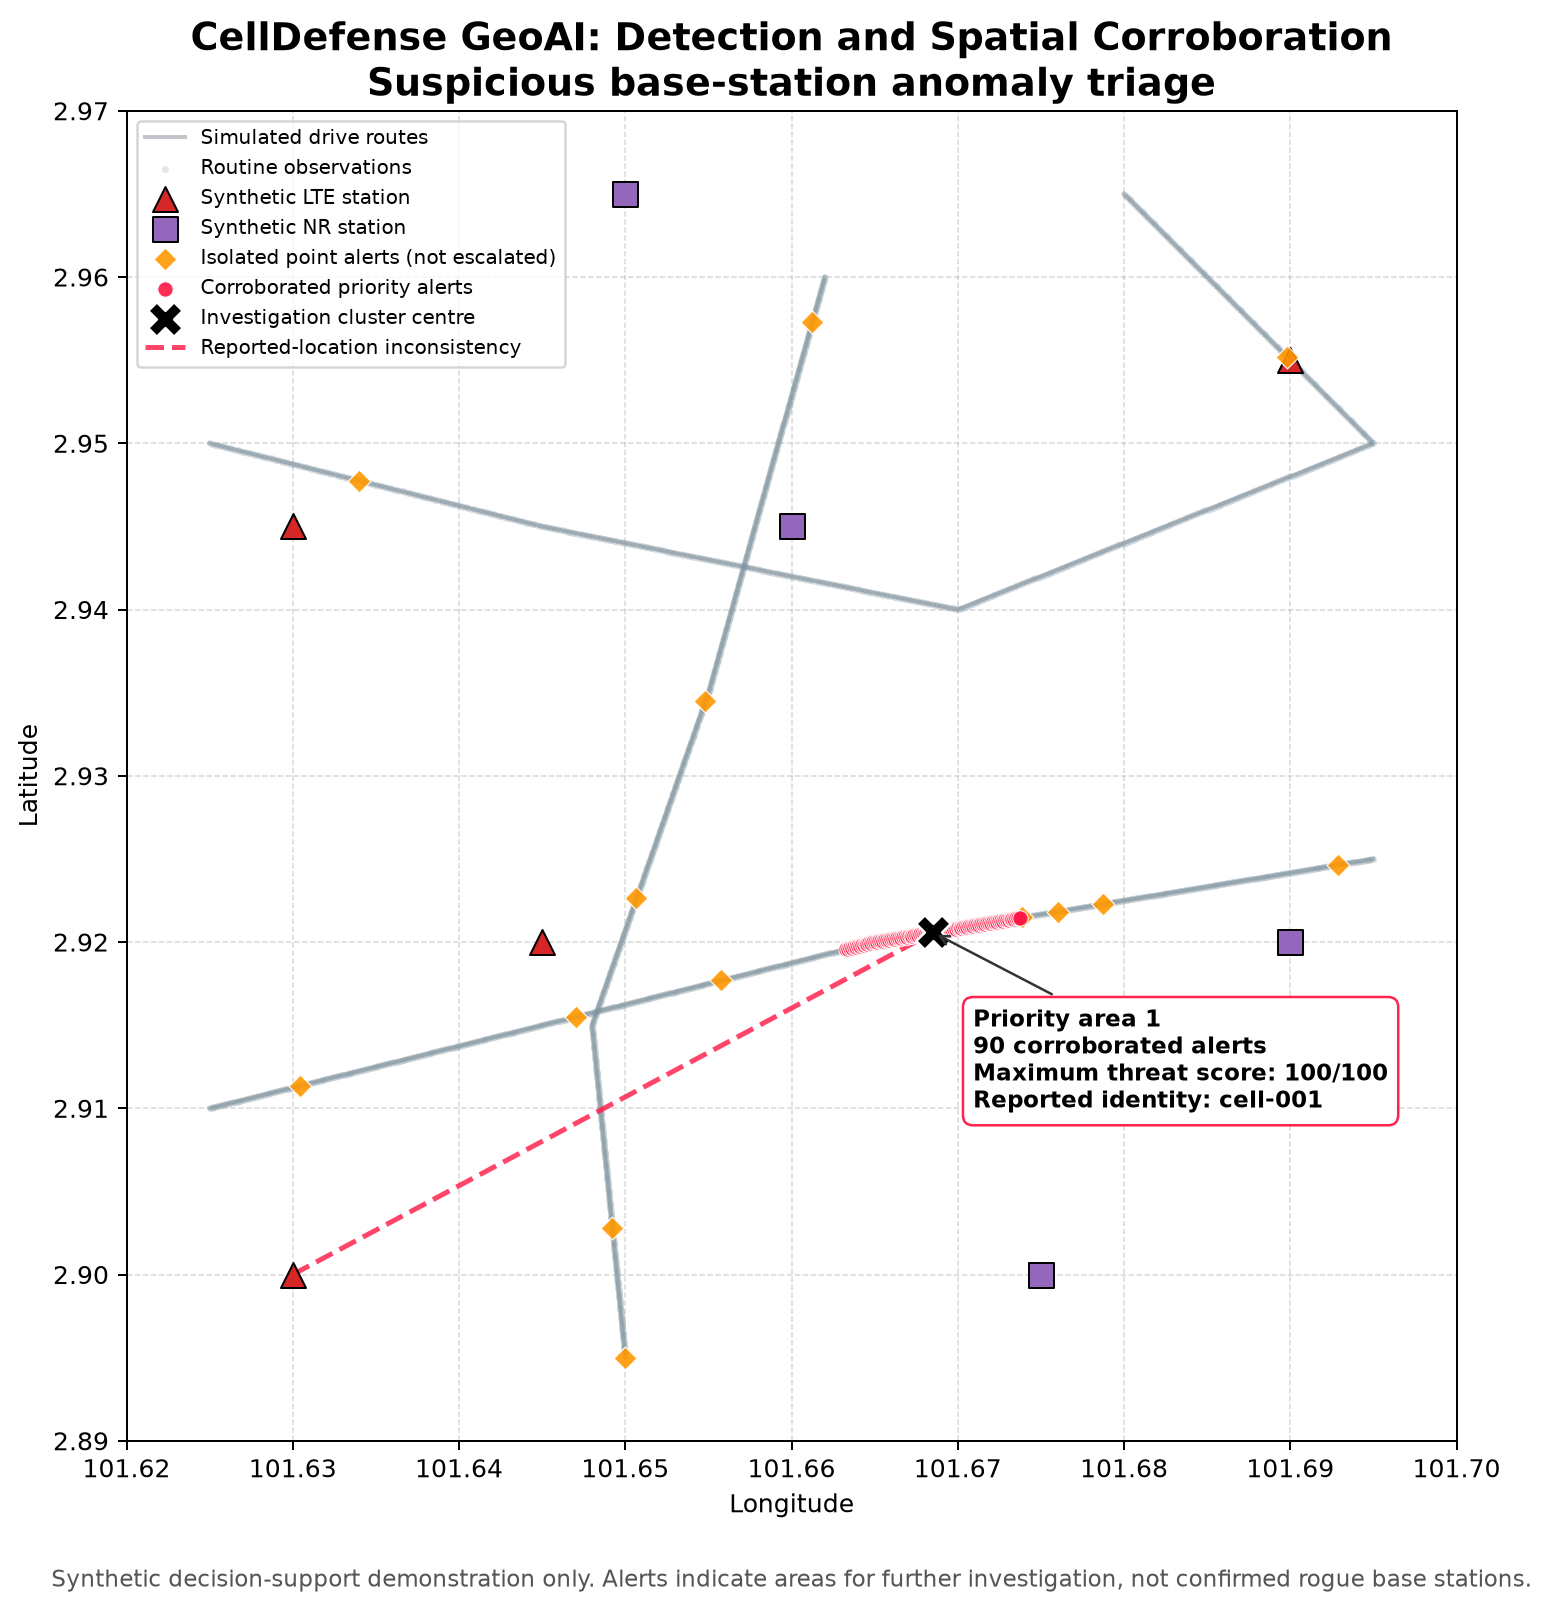
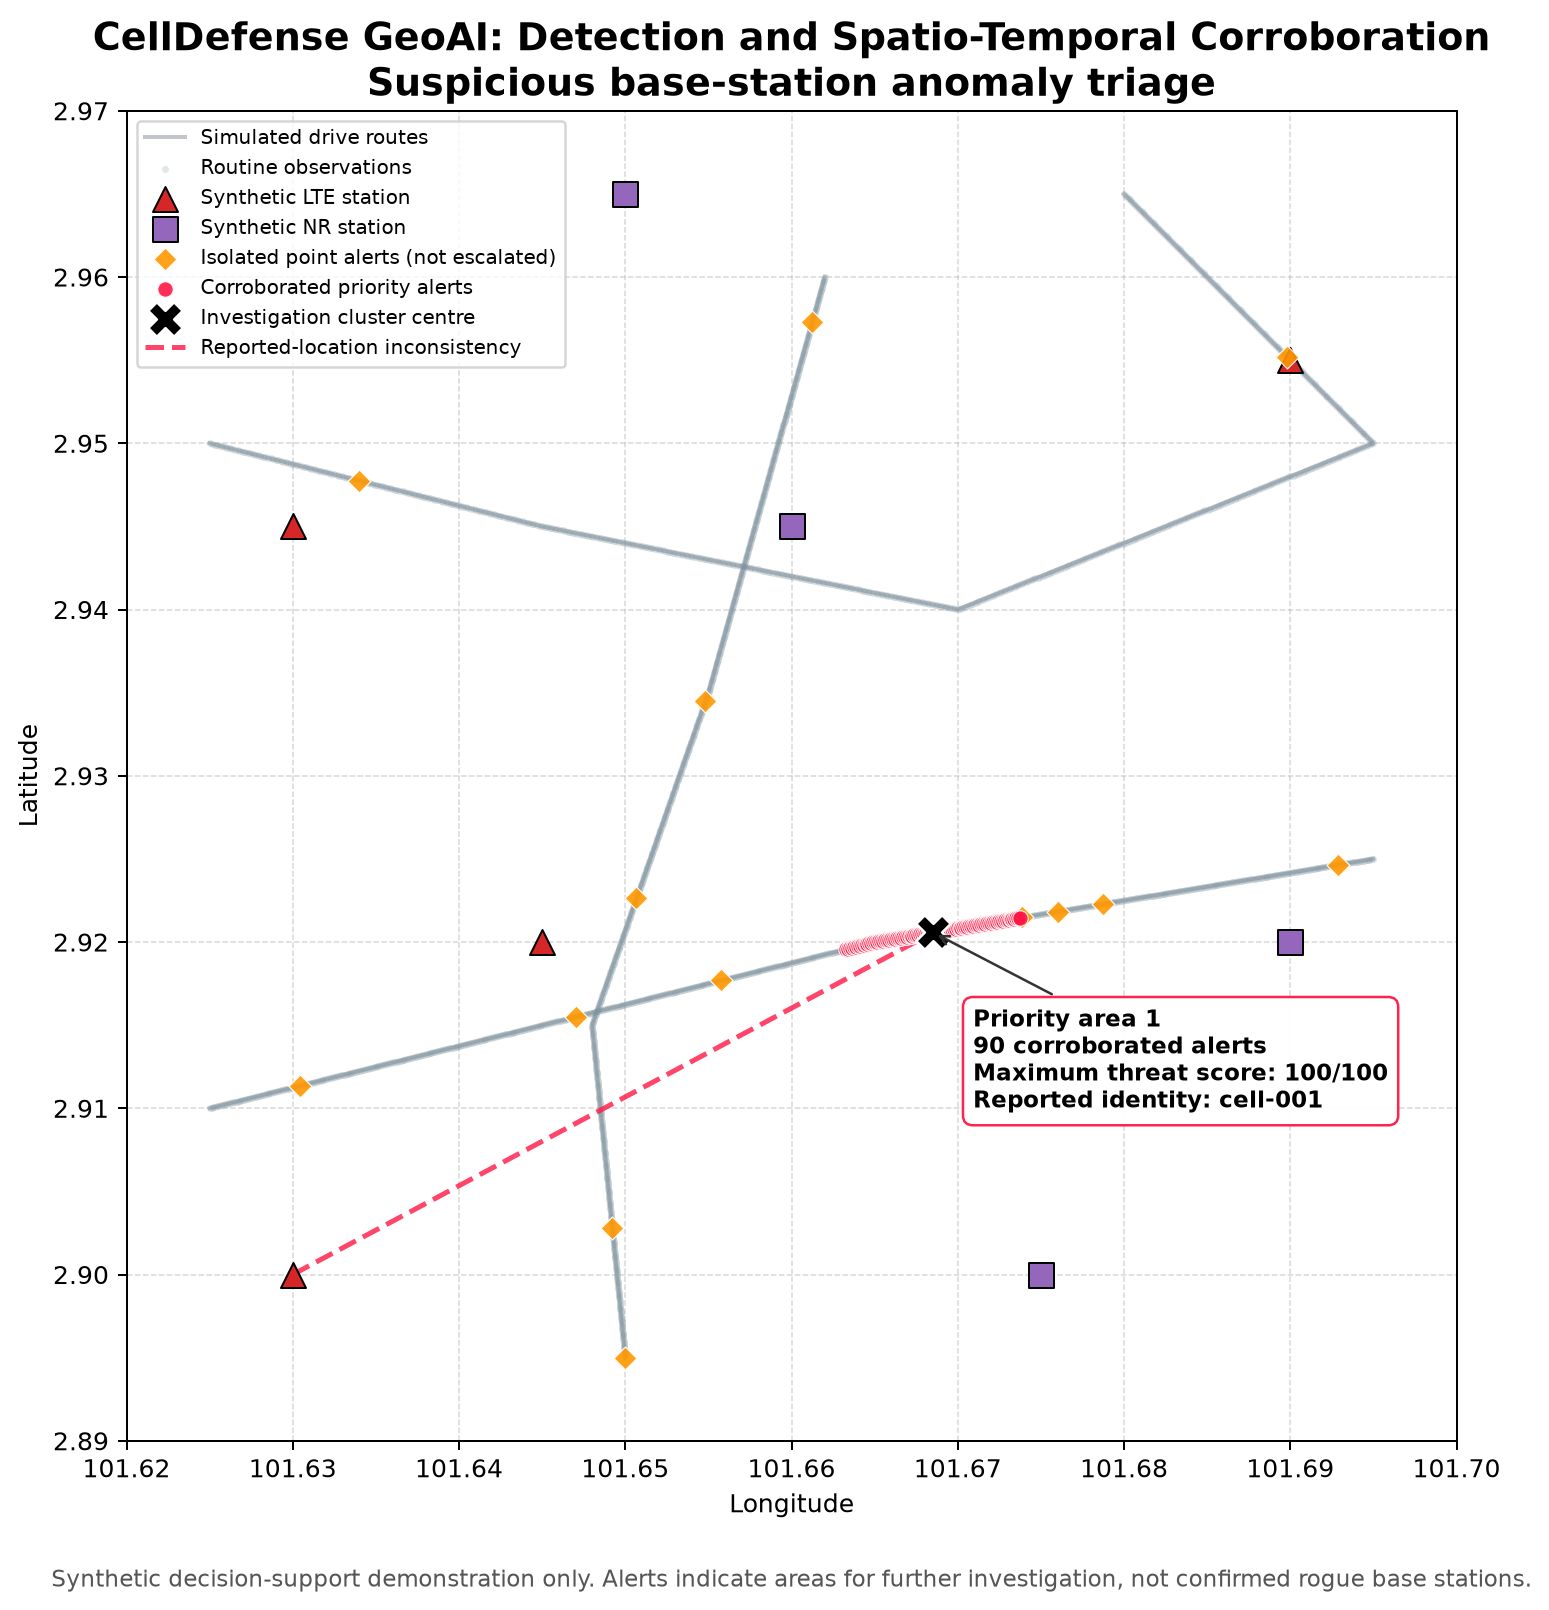
feat: rank investigation areas by priority

Changed region(s): [[0.062, 0.0, 0.9606, 0.0311]]

diff --git a/tests/test_clustering.py b/tests/test_clustering.py
@@ -195,3 +195,74 @@ def test_invalid_cluster_distance_is_rejected(
             scored_scenario,
             maximum_distance_metres=0.0,
         )
+        
+        
+def test_cluster_summary_ranks_higher_threat_first() -> None:
+    clustered = pd.DataFrame(
+        {
+            "cluster_id": [
+                0,
+                0,
+                0,
+                1,
+                1,
+                1,
+            ],
+            "timestamp": pd.date_range(
+                start="2026-08-01 08:00:00+08:00",
+                periods=6,
+                freq="s",
+            ),
+            "latitude": [
+                2.9200,
+                2.9201,
+                2.9202,
+                2.9400,
+                2.9401,
+                2.9402,
+            ],
+            "longitude": [
+                101.6600,
+                101.6601,
+                101.6602,
+                101.6800,
+                101.6801,
+                101.6802,
+            ],
+            "threat_score": [
+                80.0,
+                82.0,
+                84.0,
+                95.0,
+                96.0,
+                97.0,
+            ],
+            "cell_id": [
+                "cell-001",
+                "cell-001",
+                "cell-001",
+                "cell-002",
+                "cell-002",
+                "cell-002",
+            ],
+            "scenario": ["baseline"] * 6,
+            "is_anomaly": [False] * 6,
+        }
+    )
+
+    summary = summarise_alert_clusters(
+        clustered
+    )
+
+    assert list(summary["priority_rank"]) == [
+        1,
+        2,
+    ]
+    assert list(summary["cluster_id"]) == [
+        1,
+        0,
+    ]
+    assert (
+        summary.iloc[0]["maximum_threat_score"]
+        == 97.0
+    )

diff --git a/dashboard/app.py b/dashboard/app.py
@@ -326,8 +326,8 @@ def add_investigation_clusters(
 
     for cluster in cluster_summary.itertuples():
         priority_number = int(
-            cluster.cluster_id
-        ) + 1
+            cluster.priority_rank
+        )
 
         folium.Circle(
             location=[
@@ -575,9 +575,8 @@ def main() -> None:
                 cluster_summary.copy(deep=True)
             )
             display_summary["priority"] = (
-                display_summary["cluster_id"]
+                display_summary["priority_rank"]
                 .astype(int)
-                + 1
             )
             display_summary = display_summary.rename(
                 columns={
@@ -644,12 +643,14 @@ def main() -> None:
                 "No feature diagnostics are available."
             )
         else:
+            cluster_by_priority = {
+                int(cluster.priority_rank): int(
+                    cluster.cluster_id
+                )
+                for cluster in cluster_summary.itertuples()
+            }
             priority_options = sorted(
-                (
-                    diagnostics["cluster_id"]
-                    .astype(int)
-                    + 1
-                ).unique()
+                cluster_by_priority
             )
 
             selected_priority = st.selectbox(
@@ -660,7 +661,9 @@ def main() -> None:
                 ),
             )
             selected_cluster_id = (
-                int(selected_priority) - 1
+                cluster_by_priority[
+                    int(selected_priority)
+                ]
             )
 
             cluster_evidence = diagnostics.loc[

diff --git a/src/celldefense/clustering.py b/src/celldefense/clustering.py
@@ -10,6 +10,7 @@ GEOGRAPHIC_CRS = "EPSG:4326"
 CYBERJAYA_PROJECTED_CRS = "EPSG:32647"
 
 CLUSTER_SUMMARY_COLUMNS = [
+    "priority_rank",
     "cluster_id",
     "observation_count",
     "start_time",
@@ -300,7 +301,7 @@ def summarise_alert_clusters(
         columns=CLUSTER_SUMMARY_COLUMNS,
     )
 
-    return summary.sort_values(
+    ranked_summary = summary.sort_values(
         by=[
             "maximum_threat_score",
             "observation_count",
@@ -308,3 +309,14 @@ def summarise_alert_clusters(
         ascending=[False, False],
         ignore_index=True,
     )
+
+    ranked_summary["priority_rank"] = np.arange(
+        start=1,
+        stop=len(ranked_summary) + 1,
+        dtype=int,
+    )
+
+    return ranked_summary.loc[
+        :,
+        CLUSTER_SUMMARY_COLUMNS,
+    ] 

diff --git a/README.md b/README.md
@@ -37,8 +37,9 @@ The working prototype:
 5. Produces a threat score from 0 to 100 for every observation.
 6. Applies cell-aware DBSCAN spatio-temporal corroboration.
 7. Separates isolated point alerts from investigation-worthy clusters.
-8. Generates human-readable feature diagnostics.
-9. Displays results in static maps and an interactive Streamlit dashboard.
+8. Ranks investigation areas by threat severity and corroborated alert count.
+9. Generates human-readable feature diagnostics.
+10. Displays results in static maps and an interactive Streamlit dashboard.
 
 ## Implemented detection scope
 
@@ -75,6 +76,7 @@ flowchart TD
 | Anomaly detection | Isolation Forest trained on independent baseline data | Point-level prediction and threat score |
 | Spatio-temporal corroboration | Cell-aware DBSCAN with 200-metre and 120-second neighbourhood limits in WGS 84 / UTM zone 47N | Dense investigation clusters and isolated noise |
 | Cell-identity control | DBSCAN applied independently per reported cell | Different cells cannot contaminate the same cluster |
+| Site prioritisation | Rank by maximum threat score, then corroborated observation count | Transparent operational priority queue |
 | Explainability | Cluster medians compared with the normal 1st–99th percentile range | Human-readable threat evidence |
 
 ## Synthetic study area and data
